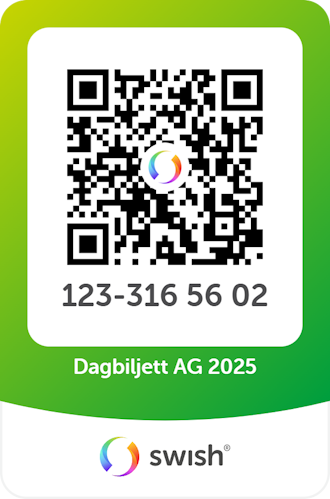
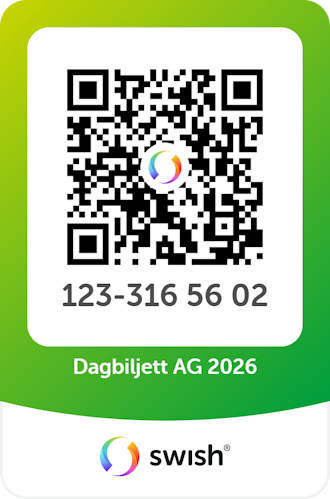
Content updates.

Changed region(s): [[0.2121, 0.6914, 0.7879, 0.7515], [0.4545, 0.9018, 0.697, 0.9319]]

diff --git a/GotlandFrontend/lib/content/start_page.html b/GotlandFrontend/lib/content/start_page.html
@@ -3,10 +3,19 @@
 </h1>
 
 <p>
-	Vi är taggade som tusan på årets fest och nu när bokningen är öppnad (nästan alla biljetter har redan sålt slut) så
-	kan tiden gärna få gå lite fortare fram till maj månad. För oss i crew är det förstås välkommet med lite extra tid att
-	planera och se till att årets AG återigen blir det bästa någonsin. Vi tar gärna emot dina förslag och idéer också, förstås!
-	Håll gärna koll i nyhetsflödet här nedan för att få viktig info och allt som är nytt för i år.
+	Tiden går verkligen fort, i skrivande stund är det bara några veckor till AG och det börjar nästan kännas lite
+	stressigt att bli klar med allt i tid... men det ska vi givetvis göra för er, våra underbara gästers, skull!
+</p>
+
+<p>
+	Om du mot förmodan inte har köpt biljett ännu så vill vi tipsa om att det för ovanlighetens skull faktiskt
+	finns ströplatser kvar, så hör av dig eller skriv upp dig på reservlistan (under Bokning) så kan vi säkert
+	hitta en lösning om du vill åka på AG i år (vilket du förstås vill)!
+</p>
+
+<p>
+	För övrigt så kommer vi att fortsätta posta nyheter och viktig info med några dagars mellanrum ända in i mål,
+	så håll koll på nyhetsflödet här nedan eller i våra sociala medier så att du inte missar något viktigt.
 </p>
 
 <p>

diff --git a/GotlandFrontend/lib/content/about_program_page.html b/GotlandFrontend/lib/content/about_program_page.html
@@ -44,7 +44,7 @@
 	<li><strong>15:00</strong> Fler lekar med Rindi. Må bästa lag vinna! Vad det blir för lek? Överraskning...</li>
 	<li><strong>18:00</strong> Andra middagen på samma ställe som den första. Festområdet drar igång på nytt.</li>
 	<li><strong>20:00</strong> AGVision Song Contest! Vilket lag har den största talangen? I paviljongen på Festområdet.</li>
-	<li><strong>22:30</strong> Ännu en grym spelning på stora scen i Festområdet! Vem kan det vara...?</li>
+	<li><strong>22:30</strong> Ännu en grym spelning på stora scen i Festområdet! <strong>Strög1</strong> förgyller kvällen denna gång!</li>
 	<li><strong>00:00</strong> Alla som har energi kvar är välkomna till efterkör på stranden! Här finns även mat att köpa.</li>
 	<li><strong>04:00</strong> Om någon mot förmodan fortfarande har energi kvar så... gratulerar! Stranden stänger åtminstone nu.</li>
 </ul>
